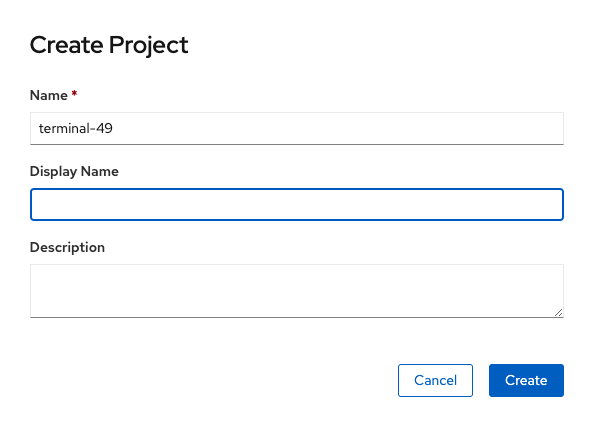
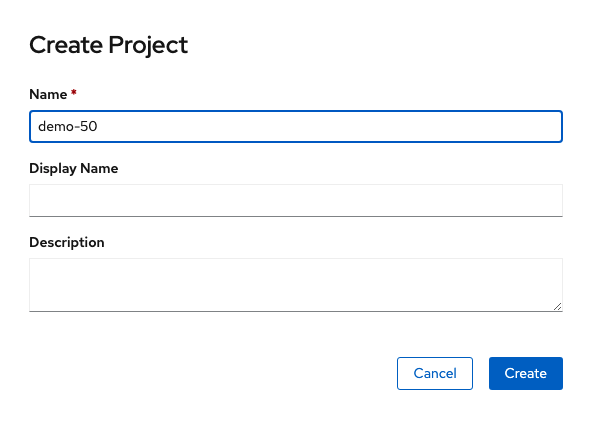
Update OpenShift 4 workshop for 4.6 - phase one

diff --git a/layouts/partials/footer/footer.html b/layouts/partials/footer/footer.html
@@ -321,8 +321,8 @@
       <div class="form-group col-sm-6 col-md-6 col-lg-4">
         <label for="domain">Domain</label>
         <select id="domain" name="domain">
-          <option value="redhatgov.io">redhatgov.io</option>
           <option value="rhnaps.io">rhnaps.io</option>          
+          <option value="redhatgov.io">redhatgov.io</option>
           <option value="az.redhatgov.io">az.redhatgov.io</option>
           <option value="redhat-fierce.io">redhat-fierce.io</option>
           <option value="fiercesw.network">fiercesw.network</option>
@@ -332,6 +332,7 @@
           <option value="open.redhat.com">open.redhat.com</option>
           <option value="opentlc.com">opentlc.com</option>
           <option value="aroapp.io">aroapp.io</option>
+          <option value="danclark.io">danclark.io</option>
         </select>
       </div>
       <div class="form-group col-sm-6 col-md-6 col-lg-3">

diff --git a/content/workshops/openshift_4_101/lab1-welcome.md b/content/workshops/openshift_4_101/lab1-welcome.md
@@ -13,7 +13,7 @@ We will be using the following terms throughout the workshop labs so here are so
 
 * Container - Your software wrapped in a complete filesystem containing everything it needs to run
 * Image - We are talking about docker images; read-only and used to create containers
-* Image Stream - An image stream comprises one or more Docker images identified by tags. 
+* Image Stream - An image stream comprises one or more OCI images identified by tags. 
 * Pod - One or more docker containers that run together
 * Service - Provides a common DNS name to access a pod (or replicated set of pods)
 * Project - A project is a group of services that are related logically
@@ -21,21 +21,57 @@ We will be using the following terms throughout the workshop labs so here are so
 * Build - The process of turning your source code into a runnable image
 * BuildConfig - configuration data that determines how to manage your build
 * Route - a labeled and DNS mapped network path to a service from outside OpenShift
-* Master - The foreman of the OpenShift architecture, the master schedules operations, watches for problems, and orchestrates everything
-* Node - Where the compute happens, your software is run on nodes
+* Operator - A method of packaging, deploying and managing a Kubernetes application
+* Cluster masters - The foreman of the OpenShift architecture, the master schedules operations, watches for problems, and orchestrates everything
+* Cluster worker - Where the compute happens, your software is run on worker nodes
+
 
 # Accessing OpenShift
-Additionally, you can utilize a command line tool to perforrm tasks.
+OpenShift provides a web console that allows you to perform various tasks via a web browser.
 
-## Let's try the command line (CLI)
-> <i class="fa fa-terminal"></i> Use your existing Butterfly terminal, and login, using the same URI with following command:
+## Let's Login to the Web Console
+> Use your browser to navigate to the URI provided by your instructor and login with the user/password provided.
 
 ```bash
-$ oc login {{< urishortfqdn "https://" "api" ":6443" >}} --insecure-skip-tls-verify=true
-Authentication required for {{< urishortfqdn "https://" "api" ":6443" >}} (openshift)
- Username: user{{< span "userid" "YOUR#" >}} Password:
-Login successful.
+{{< urishortfqdn "https://" "console-openshift-console.apps" >}}
 ```
+
+<img src="../images/ocp-login.png" width="600"><br/>
+*Login Webpage*
+
+Once logged in you should see your available projects - or a button to create a project if none exist already:
+
+<img src="../images/ocp-admin-default.png" width="600"><br/>
+*Administrator Default View, with No Projects*
+
+## So this is what an empty project looks like
+First let's create a new project to do our workshop work in.  We will use the student number you were given to ensure you don't clash with classmates:
+
+> Click on the "Create Project" button and give it a name of demo-{{< span userid "YOUR#" >}}
+
+> Populate "Name" with "demo-{{< span userid "YOUR#" >}}" and populate "Description" boxes with whatever you like.  And click "Create"
+
+<img src="../images/ocp-admin-create-project.png" width="600"><br/><br>
+
+This is going to take you to the next logical step of adding something to the project, but we don't want to do that just yet.
+
+<blockquote>
+Click "Administrator", and change it to "Developer"
+</blockquote>
+<img src="../images/ocp-menu-administrator.png" width="450"><br/><br>
+
+## Let's launch a terminal.  
+At the top of the screen, click the **[>_]** button.
+
+<img src="../images/ocp-redhat-terminal-launch.png" width="900"><br/><br>
+***Note:*** If the button does not exist, it may be necessary for the cluster administrator to load the **"Red Hat Terminal Operator"**.
+
+> Ensure that the **Project** matches demo-{{< span "userid" "YOUR#" >}}, click **[Start]**
+
+<img src="../images/ocp-redhat-terminal-launch-start.png"><br/><br>
+The terminal will launch as a container in the project.  Once the container comes only, a command line will be presented.<br>
+***Note:***  The terminal will time-out if inactice.  If it does, just close the terminal window and restart.<br>
+<img src="../images/ocp-redhat-terminal-launch-window.png" width="900"><br/><br>
 
 > <i class="fa fa-terminal"></i> Check to see what projects you have access to:
 
@@ -45,19 +81,6 @@ oc get projects
 NAME          DISPLAY NAME   STATUS
 terminal-{{< span2 "userid" "YOUR#" >}}                  Active
 ```
-
-### You will only see the "terminal" project.
-
-> Create a project
-
-Let's tell the terminal command line tool to create and use a new project:
-
-> <i class="fa fa-terminal"></i> Type the following command to create and use the demo project:
-
-```bash
-$ oc new-project demo-{{< span userid "YOUR#" >}}
-```
-
 > <i class="fa fa-terminal"></i> Type the following command to show services, deployment configs, build configurations, and active deployments (this will come in handy later):
 
 ```bash

diff --git a/content/workshops/openshift_4_101/lab4-devmanage.md b/content/workshops/openshift_4_101/lab4-devmanage.md
@@ -296,7 +296,7 @@ $ oc get pods
 Find the pod name for your Running pod
 
 ```bash
-$ oc exec -it [POD NAME] /bin/bash
+$ oc exec -it [POD NAME] -- /bin/bash
 ```
  
 You are now interactively attached to the container in your pod.  Let's look for the environment variables we set:
@@ -353,8 +353,8 @@ $ oc delete secrets dc-metro-map-generic-webhook-secret dc-metro-map-github-webh
 # Summary
 In this lab you've seen how to trace running software back to its roots, how to see details on the pods running your software, how to update deployment configurations, how to inspect logs files, how to set environment variables consistently across your environment, and how to interactively attach to running containers.  All these things should come in handy for any developer working in an OpenShift platform.
 
-To dig deeper into the details behind the steps you performed in this lab, check out the OpenShift [developer's guide][1].
+To dig deeper into the details behind the steps you performed in this lab, check out the OpenShift documentation[1].
 
-[1]: https://docs.openshift.com/container-platform/3.4/dev_guide/index.html
+[1]: https://docs.openshift.com/container-platform/latest/welcome/index.html 
 
 {{< importPartial "footer/footer.html" >}}

diff --git a/content/workshops/openshift_4_101/prerequisites.md b/content/workshops/openshift_4_101/prerequisites.md
@@ -14,17 +14,11 @@ This workshop is done entirely through the browser, but you do need a free perso
 {{% /alert %}}
 
 ## Create a Github account
-If you don't have a person GitHub account please sign up [here][6] to create a free account.
+If you don't have a person GitHub account please sign up [here][1] to create a free account.
 
-* [Create GitHub Account][6]
-* [Download Git Client (optional)][8]
+* [Create GitHub Account][1]
 
 
-[1]: https://docs.openshift.com/enterprise/latest/cli_reference/get_started_cli.html
-[2]: https://github.com/openshift/origin/releases
-[3]: http://brew.sh/
-[4]: http://git-scm.com/downloads
-[6]: https://github.com/join?source=header-home
-[8]: https://git-scm.com/downloads
+[1]: https://github.com/join?source=header-home
 
 {{< importPartial "footer/footer.html" >}}

diff --git a/content/workshops/openshift_4_101/_index.md b/content/workshops/openshift_4_101/_index.md
@@ -43,7 +43,7 @@ If you are on-site with us, the instructor will walk you through and kick off ea
 <br>
 
 {{% alert info %}}
-These labs have been tailored for OpenShift v4.3
+These labs have been tailored for OpenShift v4.6
 {{% /alert %}}
 
 {{< importPartial "footer/footer.html" >}}

diff --git a/content/workshops/openshift_4_101/lab2-byocontainer.md b/content/workshops/openshift_4_101/lab2-byocontainer.md
@@ -111,7 +111,6 @@ Click "Create"
 > <i class="fa fa-terminal"></i> Try typing the following to see what is available to 'get':
 
 ```bash
-$ oc project demo-{{< span userid "YOUR#" >}}
 $ oc get all
 ```
 
